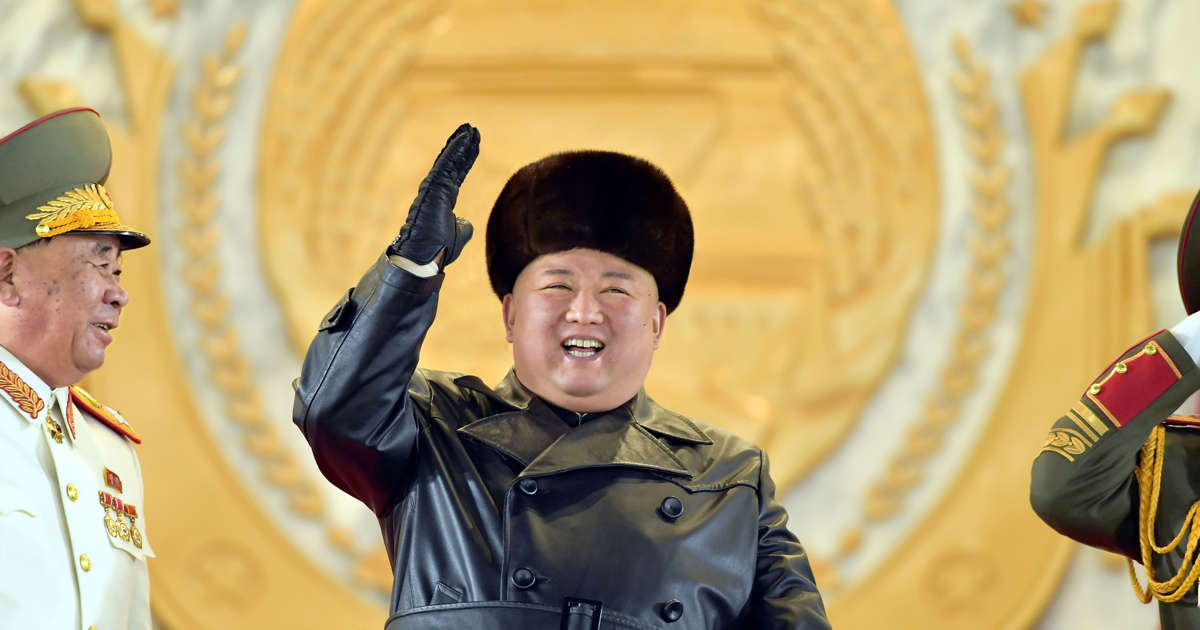
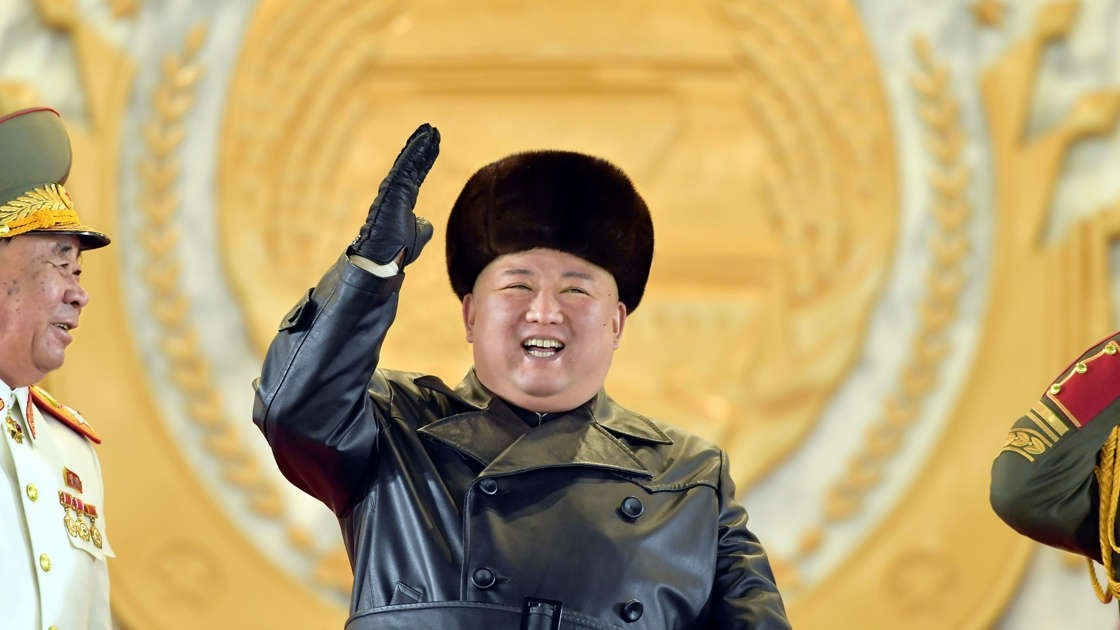
Fixaði Navbarinn

diff --git a/templates/navbar.html b/templates/navbar.html
@@ -33,40 +33,35 @@
 </div>
 
 <main class="container">
-<div id="carouselExampleDark" class="carousel carousel-dark slide" data-bs-ride="carousel">
-  <div class="carousel-indicators">
-    <button type="button" data-bs-target="#carouselExampleDark" data-bs-slide-to="0" class="active" aria-current="true" aria-label="Slide 1"></button>
-    <button type="button" data-bs-target="#carouselExampleDark" data-bs-slide-to="1" aria-label="Slide 2"></button>
-    <button type="button" data-bs-target="#carouselExampleDark" data-bs-slide-to="2" aria-label="Slide 3"></button>
-  </div>
+<div id="carouselExampleInterval" class="carousel slide" data-bs-ride="carousel">
   <div class="carousel-inner">
     <div class="carousel-item active" data-bs-interval="10000">
-      <img src="{% static 'images/kimhappy.jpg' %}" class="d-block w-100" alt="...">
-      <div class="carousel-caption d-none d-md-block">
-        <h5>First slide label</h5>
-        <p>Some representative placeholder content for the first slide.</p>
-      </div>
+      <img src="{% static 'images/kim-jong-un-scaled.jpg' %}" class="d-block w-100" alt="...">
     </div>
     <div class="carousel-item" data-bs-interval="2000">
-      <img src="{% static 'images/kimunhappy.png' %}" class="d-block w-100" alt="...">
-      <div class="carousel-caption d-none d-md-block">
-        <h5>Second slide label</h5>
-        <p>Some representative placeholder content for the second slide.</p>
-      </div>
+      <img src="{% static 'images/kim-jong-food.jpg' %}" class="d-block w-100" alt="...">
+    </div>
+    <div class="carousel-item" data-bs-interval="2000">
+      <img src="{% static 'images/kimjongun2.jpg' %}" class="d-block w-100" alt="...">
+    </div>
+    <div class="carousel-item" data-bs-interval="2000">
+      <img src="{% static 'images/trumpkim.jpg' %}" class="d-block w-100" alt="...">
+    </div>
+    <div class="carousel-item" data-bs-interval="2000">
+      <img src="{% static 'images/kim-jong-un.jpg' %}" class="d-block w-100" alt="...">
+    </div>
+    <div class="carousel-item" data-bs-interval="2000">
+      <img src="{% static 'images/kim-jong-food.jpg' %}" class="d-block w-100" alt="...">
     </div>
     <div class="carousel-item">
-      <img src="{% static 'images/redstarcereal.png' %}" class="d-block w-100" alt="...">
-      <div class="carousel-caption d-none d-md-block">
-        <h5>Third slide label</h5>
-        <p>Some representative placeholder content for the third slide.</p>
-      </div>
+      <img src="{% static 'images/kimjongun2.jpg' %}" class="d-block w-100" alt="...">
     </div>
   </div>
-  <button class="carousel-control-prev" type="button" data-bs-target="#carouselExampleDark" data-bs-slide="prev">
+  <button class="carousel-control-prev" type="button" data-bs-target="#carouselExampleInterval" data-bs-slide="prev">
     <span class="carousel-control-prev-icon" aria-hidden="true"></span>
     <span class="visually-hidden">Previous</span>
   </button>
-  <button class="carousel-control-next" type="button" data-bs-target="#carouselExampleDark" data-bs-slide="next">
+  <button class="carousel-control-next" type="button" data-bs-target="#carouselExampleInterval" data-bs-slide="next">
     <span class="carousel-control-next-icon" aria-hidden="true"></span>
     <span class="visually-hidden">Next</span>
   </button>

diff --git a/static/css/header.css b/static/css/header.css
@@ -41,11 +41,9 @@
 .logo img {
     width: 20%;
 }
-.carousel-control-next-icon,
-.carousel-control-prev-icon {
-  background-image: none;
-  color: red;
-  font-size: 20px;
+.carousel-inner > .item > img {
+  width: 50%;
+  height: 60%;
 }
 
 .blog-header {
